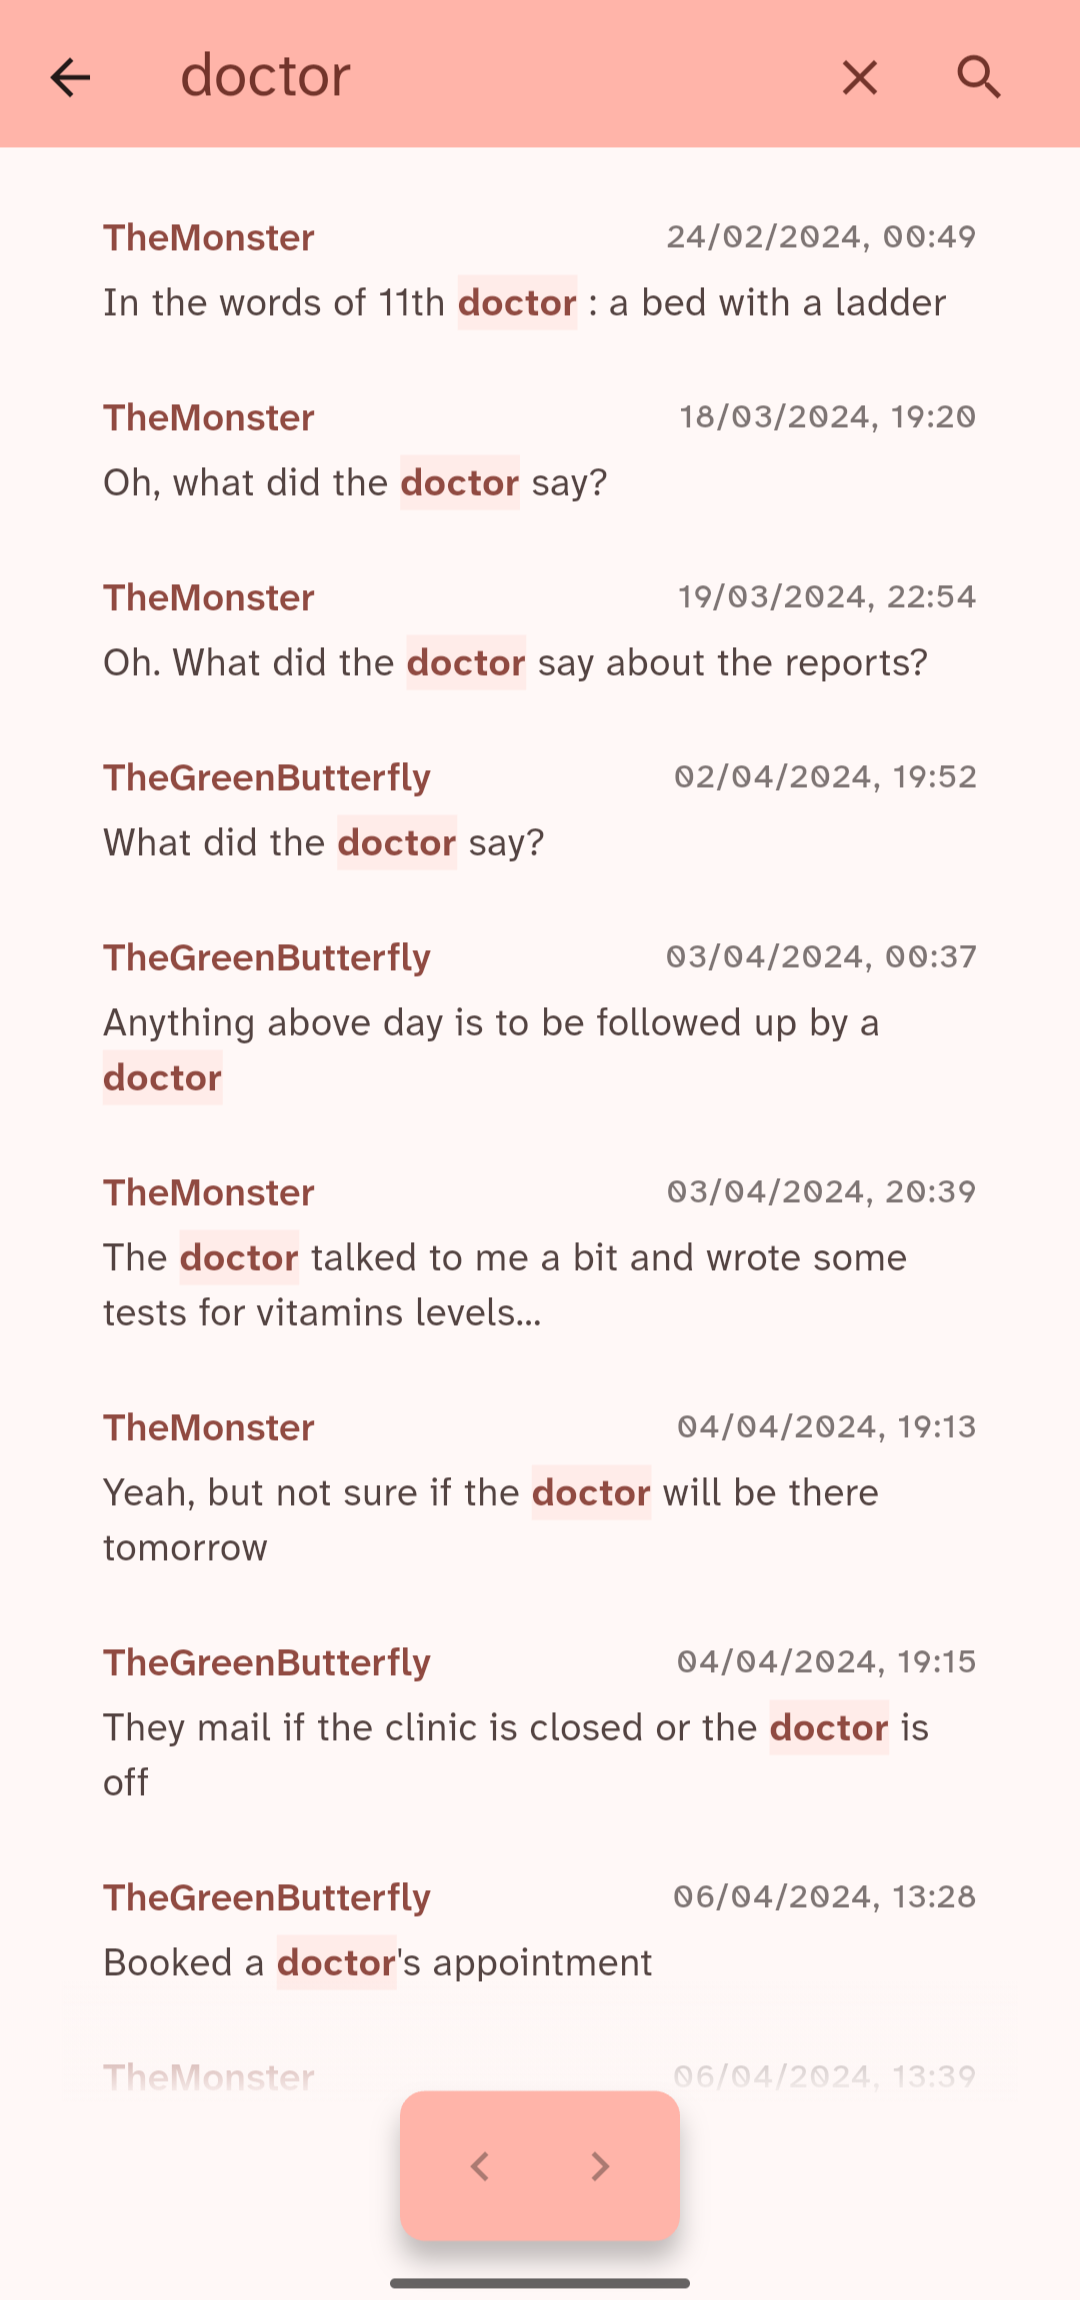
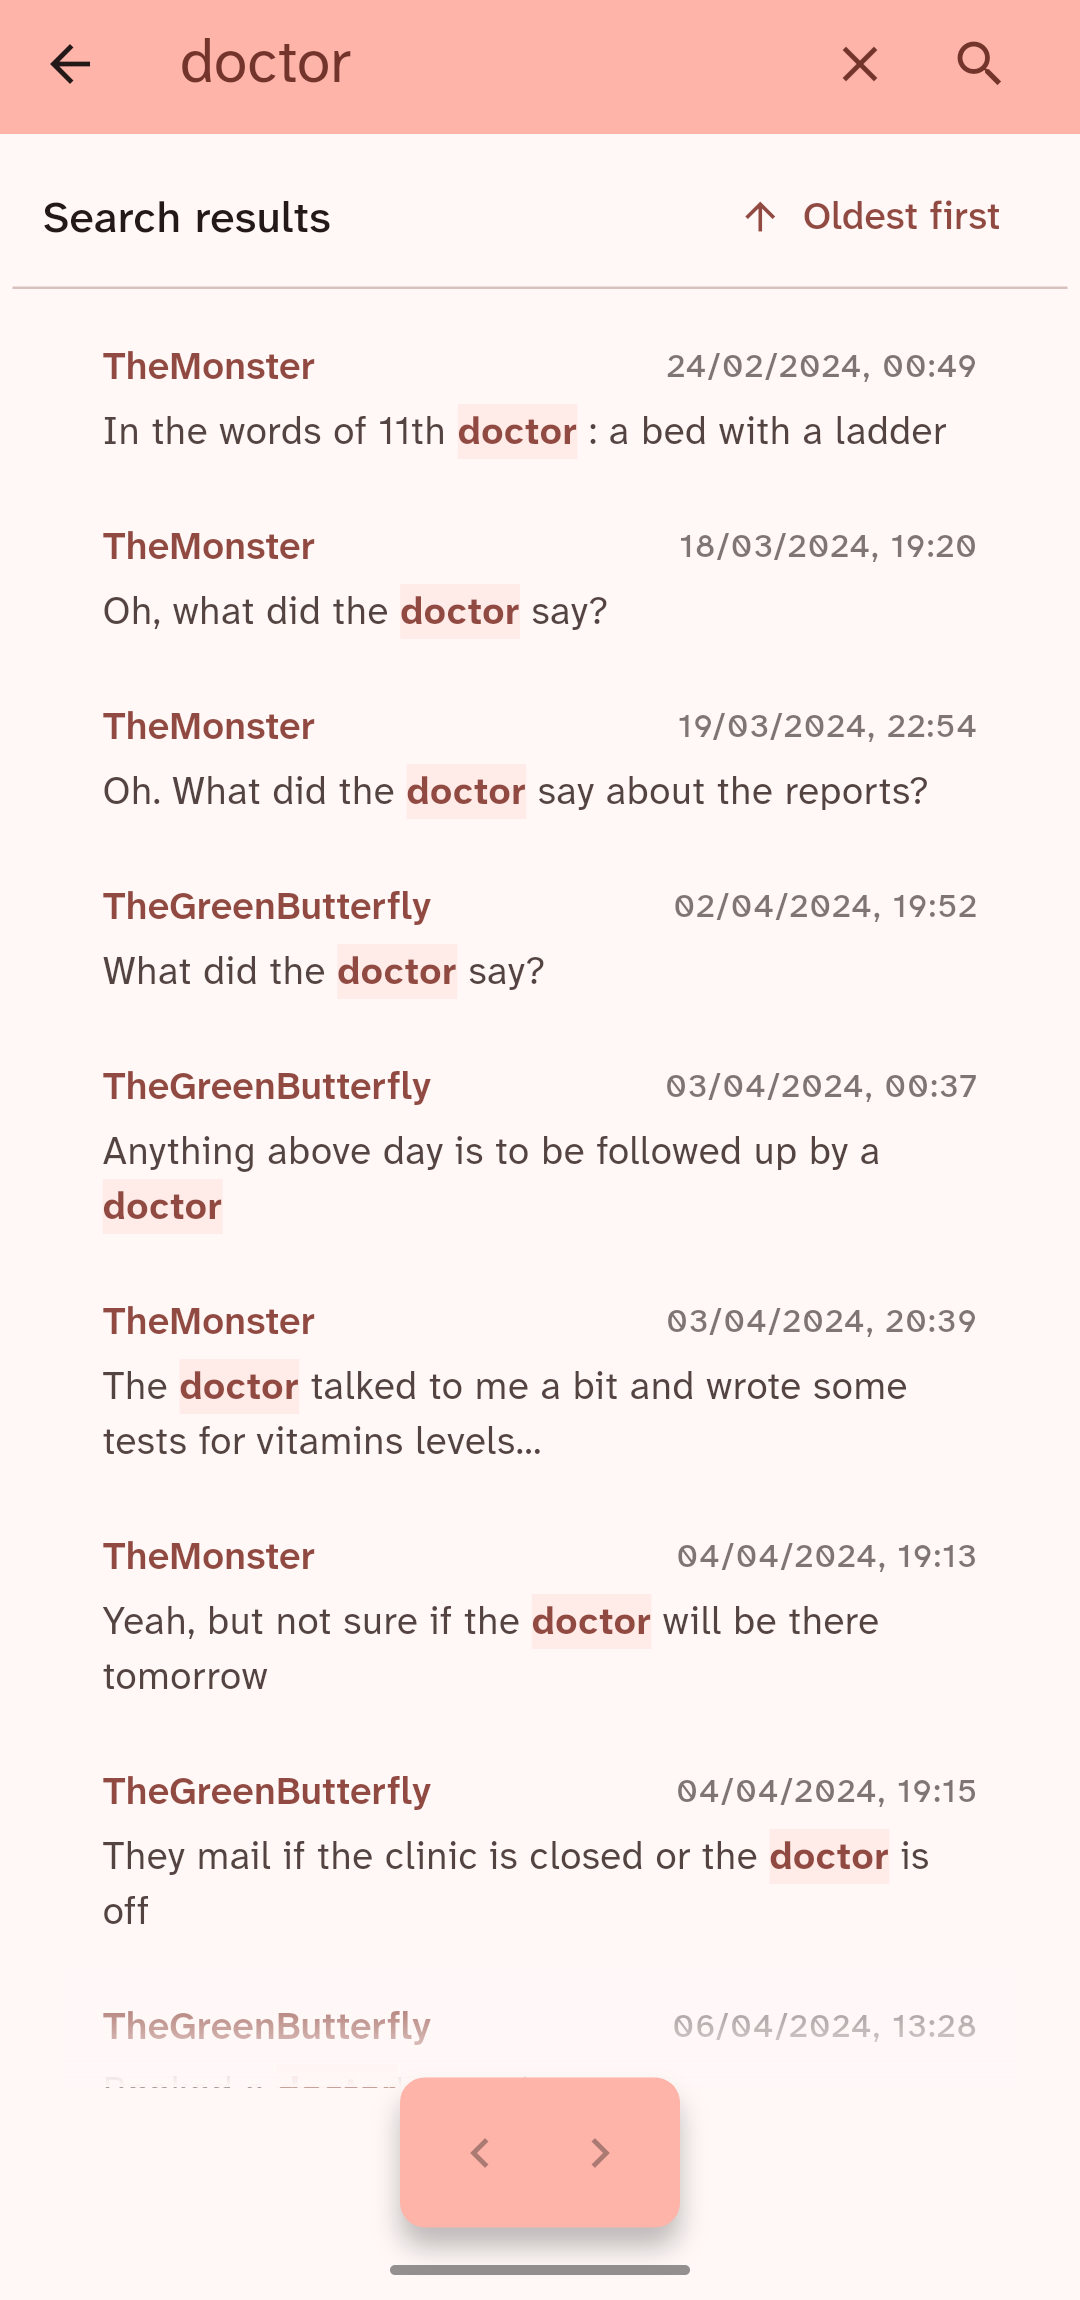
feat(search): add sort toggle to search view (#9)
- Require conversation id be passed to search controller.
- Add `updateSort` to update the sort state.
- Clear search when `doSearch` is called with an empty or white space query.
- Add a conditional toolbar with oldest/newest sort toggle in
  `SearchView`.
- Update search view screenshot.

diff --git a/lib/views/search_view.dart b/lib/views/search_view.dart
@@ -85,11 +85,47 @@ class _SearchViewState extends State<SearchView> {
     );
   }
 
-  void _search() {
-    widget.searchController.doSearch(
-      conversationId: widget.conversationId,
-      query: _textController.text,
+  Widget _buildSearchToolbar(
+    BuildContext context,
+    AppSearchController searchController,
+  ) {
+    final sortOrder = searchController.sortOrder;
+
+    return Padding(
+      padding: const EdgeInsets.symmetric(horizontal: 12, vertical: 4),
+      child: Row(
+        children: [
+          Text(
+            'Search results',
+            style: Theme.of(context).textTheme.titleMedium,
+          ),
+          const Spacer(),
+          TextButton.icon(
+            label: Text(
+              sortOrder == .oldestFirst ? 'Oldest first' : 'Newest first',
+            ),
+            onPressed: searchController.isLoading
+                ? null
+                : () {
+                    final SearchSort nextSort =
+                        searchController.sortOrder == .oldestFirst
+                        ? .newestFirst
+                        : .oldestFirst;
+                    searchController.updateSort(nextSort);
+                  },
+            icon: Icon(
+              sortOrder == .oldestFirst
+                  ? Icons.arrow_upward
+                  : Icons.arrow_downward,
+            ),
+          ),
+        ],
+      ),
     );
+  }
+
+  void _search() {
+    widget.searchController.doSearch(query: _textController.text);
   }
 
   void _clearSearch() {
@@ -98,10 +134,7 @@ class _SearchViewState extends State<SearchView> {
   }
 
   void _goToPage(int pageIndex) {
-    widget.searchController.goToPage(
-      conversationId: widget.conversationId,
-      pageIndex: pageIndex,
-    );
+    widget.searchController.goToPage(pageIndex);
   }
 
   @override
@@ -115,6 +148,7 @@ class _SearchViewState extends State<SearchView> {
   Widget build(BuildContext context) {
     final textTheme = Theme.of(context).textTheme;
     final colorScheme = Theme.of(context).colorScheme;
+    final searchController = widget.searchController;
     return Scaffold(
       appBar: AppBar(
         backgroundColor: colorScheme.inversePrimary,
@@ -149,33 +183,45 @@ class _SearchViewState extends State<SearchView> {
             ),
           ),
           onSubmitted: (value) {
-            widget.searchController.doSearch(
-              conversationId: widget.conversationId,
-              query: value,
-            );
+            searchController.doSearch(query: value);
           },
         ),
       ),
       body: Padding(
         padding: const EdgeInsets.all(5.0),
         child: ListenableBuilder(
-          listenable: widget.searchController,
+          listenable: searchController,
           builder: (context, child) {
-            final page = widget.searchController.currentPage;
-            final isLoading = widget.searchController.isLoading;
+            final page = searchController.currentPage;
+            final isLoading = searchController.isLoading;
+            final hasResults =
+                searchController.currentQuery.isNotEmpty &&
+                page != null &&
+                page.items.isNotEmpty;
 
             return SizedBox.expand(
               child: Stack(
                 children: [
-                  Padding(
-                    padding: const EdgeInsets.only(
-                      bottom: 80,
-                      top: 8,
-                      left: 20,
-                      right: 20,
-                    ),
-                    child: _buildPageContent(),
+                  Column(
+                    children: [
+                      if (hasResults) ...[
+                        _buildSearchToolbar(context, searchController),
+                        const Divider(height: 1),
+                      ],
+                      Expanded(
+                        child: Padding(
+                          padding: const EdgeInsets.only(
+                            bottom: 80,
+                            top: 8,
+                            left: 20,
+                            right: 20,
+                          ),
+                          child: _buildPageContent(),
+                        ),
+                      ),
+                    ],
                   ),
+
                   Positioned(
                     bottom: 24,
                     left: 0,

diff --git a/lib/controllers/search_controller.dart b/lib/controllers/search_controller.dart
@@ -11,8 +11,12 @@ import '../repositories/abstract_search_repository.dart';
 
 class AppSearchController extends ChangeNotifier {
   final SearchRepository _searchRepository;
+  final int conversationId;
 
-  AppSearchController(this._searchRepository);
+  AppSearchController({
+    required this.conversationId,
+    required this._searchRepository,
+  });
 
   static const int _pageSize = 50;
 
@@ -20,6 +24,7 @@ class AppSearchController extends ChangeNotifier {
   String get currentQuery => _currentQuery;
 
   SearchSort _sortOrder = SearchSort.oldestFirst;
+  SearchSort get sortOrder => _sortOrder;
 
   SearchPage? _currentPage;
   SearchPage? get currentPage => _currentPage;
@@ -32,34 +37,41 @@ class AppSearchController extends ChangeNotifier {
 
   int _requestId = 0;
 
-  Future<void> doSearch({
-    required int conversationId,
-    required String query,
-    SearchSort sortOrder = SearchSort.oldestFirst,
-  }) async {
+  Future<void> updateSort(SearchSort newSortOrder) async {
+    if (_sortOrder == newSortOrder) return;
+    _sortOrder = newSortOrder;
+
+    if (_currentQuery.isEmpty) {
+      notifyListeners();
+      return;
+    }
+    await doSearch(query: _currentQuery);
+  }
+
+  Future<void> doSearch({required String query, SearchSort? sortOrder}) async {
     final trimmedQuery = query.trim();
 
-    if (trimmedQuery.isEmpty) return;
+    if (sortOrder != null) {
+      _sortOrder = sortOrder;
+    }
+
+    if (trimmedQuery.isEmpty) {
+      clearSearch();
+      return;
+    }
 
     _currentQuery = trimmedQuery;
-    _sortOrder = sortOrder;
 
-    await _loadPage(conversationId: conversationId, pageIndex: 0);
+    await _loadPage(0);
   }
 
-  Future<void> goToPage({
-    required int conversationId,
-    required int pageIndex,
-  }) async {
+  Future<void> goToPage(int pageIndex) async {
     if (_isLoading || pageIndex < 0) return;
 
-    await _loadPage(conversationId: conversationId, pageIndex: pageIndex);
+    await _loadPage(pageIndex);
   }
 
-  Future<void> _loadPage({
-    required int conversationId,
-    required int pageIndex,
-  }) async {
+  Future<void> _loadPage(int pageIndex) async {
     final requestId = ++_requestId;
     final query = _currentQuery;
     final sortOrder = _sortOrder;

diff --git a/lib/views/reader_view.dart b/lib/views/reader_view.dart
@@ -56,7 +56,10 @@ class _ReaderViewState extends State<ReaderView> {
   @override
   void initState() {
     super.initState();
-    _searchController = AppSearchController(_searchRepository);
+    _searchController = AppSearchController(
+      conversationId: widget.conversationId,
+      searchRepository: _searchRepository,
+    );
     _initialize();
   }
 
